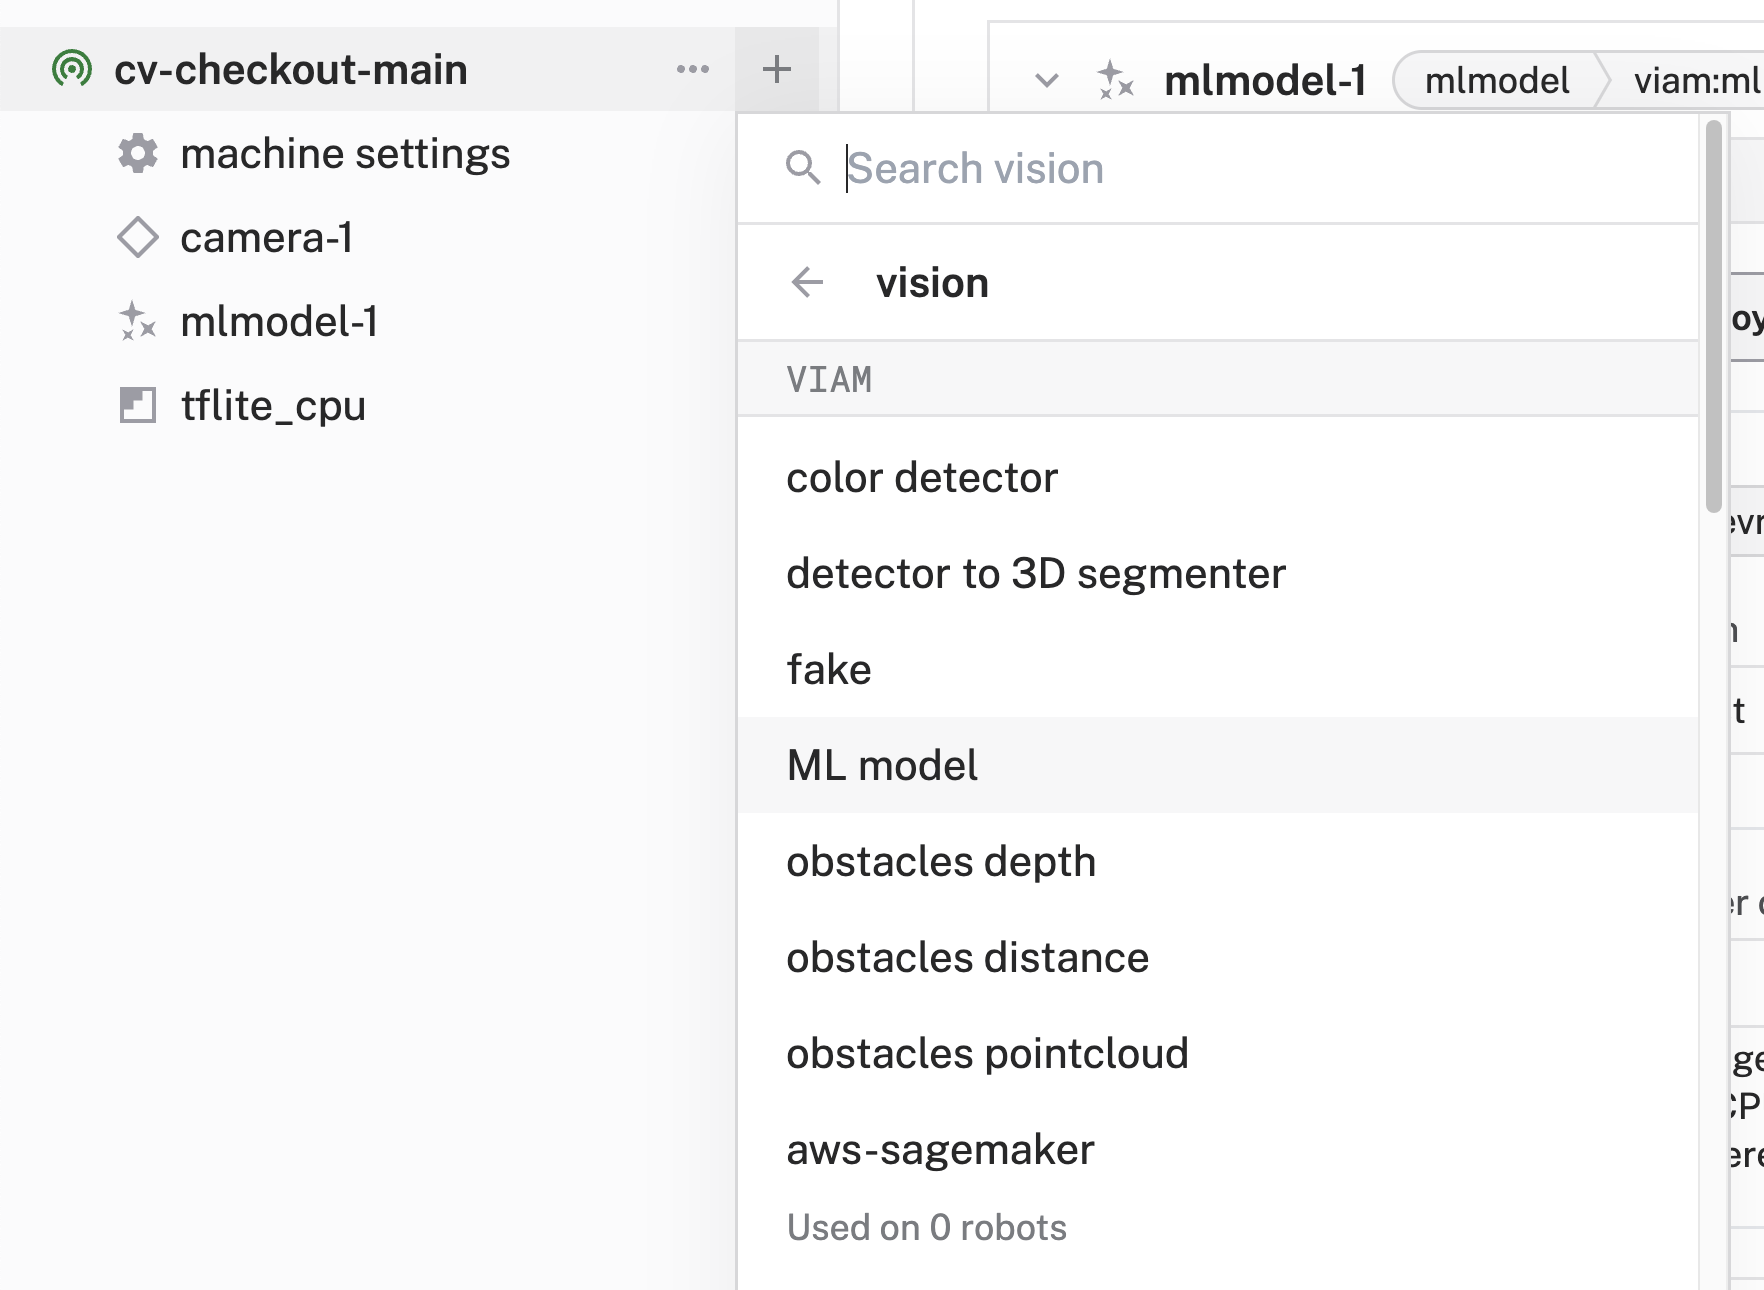
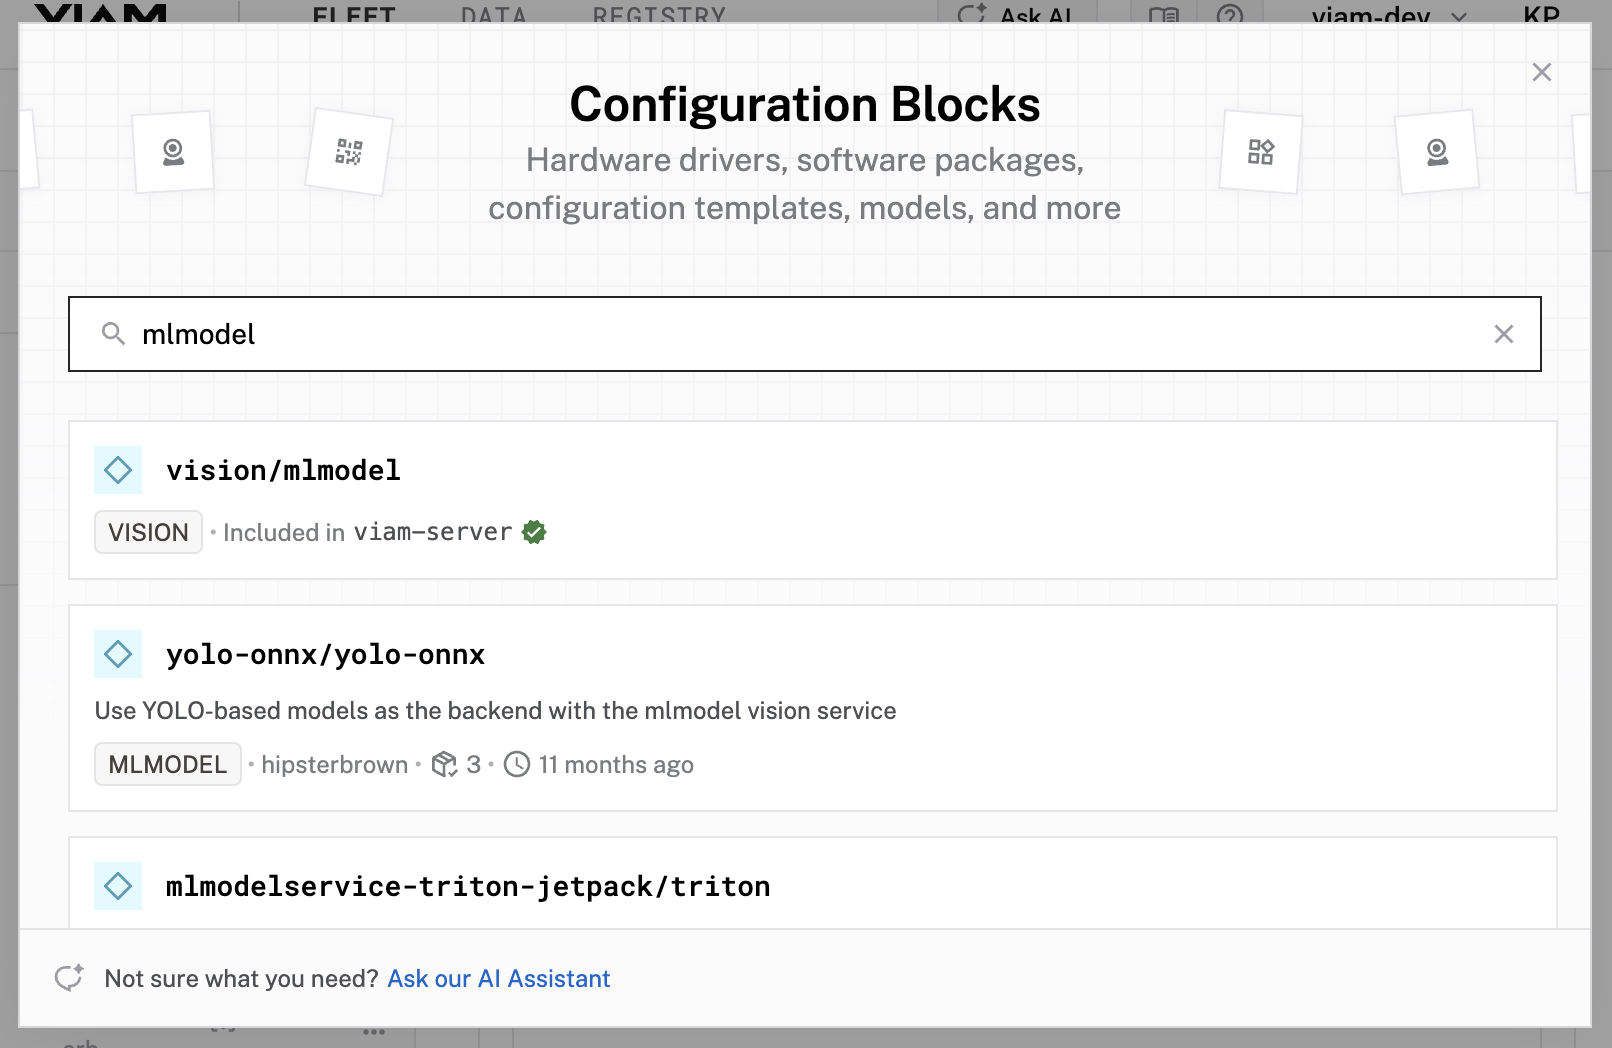
Make some updates

diff --git a/10-Configure-an-ML-model/README.md b/10-Configure-an-ML-model/README.md
@@ -1,19 +1,14 @@
 # Step 10: Configure your ML model
 
 1. Navigate back to your [FLEET](https://app.viam.com/fleet/locations), and click on your rover. Find the **CONFIGURE** tab. 
-1. Click the **+** icon in the left-hand menu and select **Service**.
-1. Select `ML model`, and find the `TFLite CPU` module. Click **Add module**. Leave the default name `mlmodel-1` for now, then click **Create**. This adds support for running TensorFlow Lite models on resource-constrained devices.
-  <img src="/assets/findMLModel.png" alt="find and add the TFLite CPU module for the ML model service" width=450 /> 
-1. Notice adding this module adds the ML Model service called `mlmodel-1` and the `tflite_cpu` module from the Viam registry. You'll see configurable cards on the right and the corresponding parts listed in the left sidebar.
-   ![ML model service added](/assets/mlModelAdded.png)
-1. In the **Configure** panel of the `mlmodel-1` service, leave the default deployment selection of **Deploy model on machine**. In the **Model** section, click **Select model**. 
-   ![selecting a custom model](/assets/selectModel.png)
-1. Find and select the custom model you've just trained, for example `beverage-detector`. Notice that you can select from any custom models you create (located within the _My Organization_ tab) or from the Viam registry (located within the _Registry_ tab). Click **Select**
+1. Click the **+** icon in the left-hand menu and select **Configuration block**.
+1. Search for `tflite`, and select the `tflite_cpu/tflite_cpu` component. Click **Add component**. Leave the default name `mlmodel-1` for now, then click **Add component**. This adds support for running TensorFlow Lite models on resource-constrained devices.
+  <img src="/assets/findMLModel.png" alt="find and add the TFLite CPU component for the ML model service" width=450 /> 
+1. Notice adding this component adds the ML Model service called `mlmodel-1` and the `tflite_cpu` module from the Viam registry. You'll see configurable cards on the right and the corresponding parts listed in the left sidebar.
+1. In the **Configure** panel of the `mlmodel-1` service, leave the default deployment selection of **Deploy model on machine**. In the **Model** section, click **Select model**.
+1. Find and select the custom model you've just trained, for example `beverage-detector`. Notice that you can select from any custom models you create (located within the _My models_ tab) or from the Viam registry (located within the _Registry_ tab). Click **Choose**
    <br>
    <img src="/assets/chooseModel.png" alt="finding and choosing custom model" width=400>
-1. Confirm that the correct dataset is selected, then click **Select**
-   <br>
-   <img src="/assets/confirmModel.png" alt="confirming custom model selection" width=400>
+1. Confirm that the correct model is selected, then click **Choose**
 1. Click **Save** in the top right to save and apply your configuration changes.
 1. Your custom model is now configured and will be used by the ML model service. Notice that a **Version** option is also configurable. If you decide to train new versions of your  model, you have the ability to set your machine to use a specific version based on your needs.
-   ![custom model added](/assets/customModelAdded.png)

diff --git a/07-Capture-images-for-training/README.md b/07-Capture-images-for-training/README.md
@@ -40,10 +40,8 @@ You can use the data management service to capture data from the Rover's camera,
 
 1. If you see a **Capture disabled on data management service** warning, click **Enable capture on data management service**.
 1. Select a **Method** to capture data from.
-   - **GetImages** (recommended): Returns one image for each camera sensor as a JPEG (for color sensors) or point cloud (for depth sensors).
-   - **ReadImage**: Returns a single image in the specified MIME type, if the camera component supports that MIME type.
-     Prefer GetImages unless your use case requires a specific MIME type other than JPEG.
-1. Set the capture **Frequency** in hertz, for example to `0.2` with `ReadImage` on a camera to capture an image every 5 seconds.
+   - **GetImages**: Returns one image for each camera sensor as a JPEG (for color sensors) or point cloud (for depth sensors).
+1. Set the capture **Frequency** in hertz, for example to `0.2` with `GetImages` on a camera to capture an image every 5 seconds.
 1. **Save** your config.
 1. Be mindful that this can result many images! Once you have enough images for your training data (at least 10 different images of each object you are trying to detect), you can toggle the **Capturing** setting of the data capture method off to stop capturing more images. Be sure to hit save.
 1. Navigate back to the **DATA** tab. Select all of the images you'd like to use for training (by checking each desired image's checkbox), then click the **Add to dataset** button.

diff --git a/02-Setup-Raspberry-Pi/README.md b/02-Setup-Raspberry-Pi/README.md
@@ -11,7 +11,7 @@ The Raspberry Pi that you'll use with the Viam Rover boots from a microSD card. 
 1. In the **Storage** step, choose the micro SD card from the list of devices.
 1. To configure your Raspberry Pi for remote access, go through the **Customisation** steps.
 1. Set a **Hostname**: enter the name you would like to access the Pi by, for example, `rover`. This will need to be unique among your fellow workshop attendees.
-1. Set **Localisation** settings: Set your Capital city to `Los Angeles`, Time zone to `North America/Los Angeles`, and Keyboard layout to `us`.
+1. Set **Localisation** settings: Set your Capital city to your nearest major city (ex. `Los Angeles`), Time zone to your corresponding region and city (ex. `North America/Los Angeles`), and Keyboard layout to `us`.
 1. Setup an admin user for your Pi: Enter a **username** (for example, your first name) and **password** that you'll use to log into the Pi. If you skip this step, the default username will be `pi` (not recommended for security reasons). And specify a password.
 1. Configure your Pi's Wi-Fi access: Set the **SSID** (Service Set Identifier) AKA your Wi-Fi network name and the **password** (which is the network password). 
 1. Enable SSH: In the **Remote Access** step, toggle on the **Enable SSH** is turned on and that **Use password authentication** is selected. This lets you log into your Pi over the network using the username and password you provided earlier. 

diff --git a/11-Add-a-vision-service/README.md b/11-Add-a-vision-service/README.md
@@ -1,7 +1,7 @@
 # Step 11: Add a vision service to your rover
 
-1. Click the **+** icon in the left-hand menu and select **Service**.
-1. Select `vision`, and find the `ML Model` module. Give your vision service a more descriptive name, for example `beverage-vision-service`. Click **Create**. While the camera component lets you _access_ what your machine sees, the vision service _interprets_ the image data using your ML model.
+1. Click the **+** icon in the left-hand menu.
+1. Search for `mlmodel`, and find the `vision/mlmodel` module. Give your vision service a more descriptive name, for example `beverage-vision-service`. Click **Add component**. While the camera component lets you _access_ what your machine sees, the vision service _interprets_ the image data using your ML model.
   <img src="/assets/findVisionService.png" alt="find and add vision service" width=450 /> 
 1. Notice that your service is now listed in the left sidebar and a corresponding configuration card is added on the right. 
 1. In the **Configure** panel of your vision service, set the **ML Model** to your ML Model service, for example `mlmodel-1`
